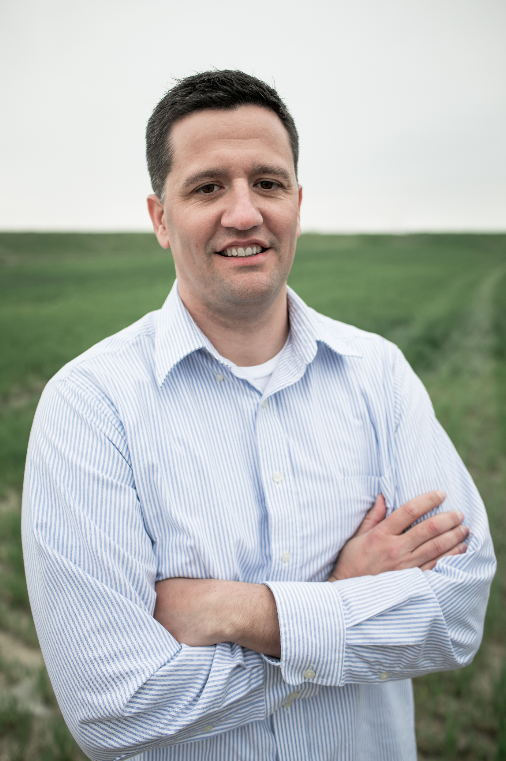
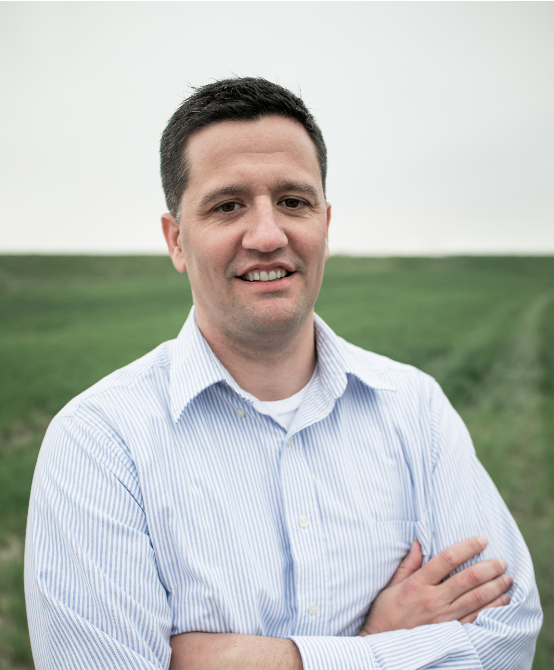
percentages on learning path

diff --git a/didact/src/components/learningPaths/LearningPath.jsx b/didact/src/components/learningPaths/LearningPath.jsx
@@ -47,6 +47,9 @@ const LearningPath = ({ id }) => {
             upcomingItemsCourses.push(el)
         }
     })
+    const progress = firstItemCourse && ((firstItemCourse.completed / firstItemCourse.total) * 100).toString()
+    const progressPecentage = progress && Number(progress.substring(0, 4))
+   
 
     console.log(completionItemsCourses)
     console.log('leanring apth', learningPath)
@@ -74,6 +77,13 @@ const LearningPath = ({ id }) => {
                 </div>
                 <div className='learningPathCard'>
                     <h2>{firstItemCourse.name}</h2>
+                    {!firstItemCourse.path_id ?
+                        (<div style={{display:'flex', justifyContent: 'space-between', width: '80%'}}>
+                            <div style={{display:'flex', flexDirection:'column', textAlign: "left"}}>
+                            <span>Progress</span>
+                            <span>{`${(firstItemCourse) ? (progressPecentage) : 0} %`}</span>
+                            </div> 
+                        </div>): null} 
                     <p>{firstItemCourse.description}</p>
                     <div className='goToCourse'>
                         <h4>Udemy</h4>
@@ -92,6 +102,13 @@ const LearningPath = ({ id }) => {
                                         <div className='learningPathCard'>
                                             <div>
                                                 <h2>{itemCourse.name}</h2>
+                                                {!itemCourse.path_id ? 
+                                                (<div style={{display:'flex', justifyContent: 'space-between', width: '80%'}}>
+                                                    <div style={{display:'flex', flexDirection:'column', textAlign: "left"}}>
+                                                    <span>Progress</span>
+                                                    <span>{`${(itemCourse) ? (((itemCourse.completed / itemCourse.total) * 100).toString().substring(0, 4)) : 0} %`}</span>
+                                                    </div> 
+                                                </div>) : null}
                                                 <p>{itemCourse.description}</p>
                                             </div>
                                             <div className='goToCourse'>
@@ -116,6 +133,12 @@ const LearningPath = ({ id }) => {
                                         <div className='learningPathCard completed'>
                                             <div>
                                                 <h2>{itemCourse.name}</h2>
+                                                <div style={{display:'flex', justifyContent: 'space-between', width: '80%'}}>
+                                                    <div style={{display:'flex', flexDirection:'column', textAlign: "left"}}>
+                                                    <span>Progress</span>
+                                                    <span>{`100%`}</span>
+                                                    </div> 
+                                                </div>
                                                 <p>{itemCourse.description}</p>
                                             </div>
                                             <div className='goToCourse'>

diff --git a/didact/src/components/courses/Course.jsx b/didact/src/components/courses/Course.jsx
@@ -101,13 +101,11 @@ const Course = ({ course, addingCourses }) => {
     const dispatch = useDispatch();
     const learningPaths = state.learningPathReducer.yourLearningPathsOwned
     const detailedCourse = state.coursesReducer.detailedCourse
-    const singleCourseInfo = detailedCourse.course
     const filteredPaths = []
     const [expanded, setExpanded] = useState(false);
     const [anchorEl, setAnchorEl] = useState(null);
     const open = Boolean(anchorEl);
     const id = open ? 'simple-popover' : undefined;
- 
 
     useEffect(() => {
         dispatch(courseEndPoint());
@@ -117,25 +115,6 @@ const Course = ({ course, addingCourses }) => {
         dispatch(getYourLearningPathsOwned())
     }, [dispatch, state.learningPathReducer.learningPath]);
 
-// Get Sections and Progress
-//     useEffect(() => {
-//             dispatch(getDetailedCourse(course.id))
-//         }, [course.id])
-
-//    const progress = detailedCourse.course && ((detailedCourse.course.completed / detailedCourse.course.total) * 100).toString()
-//    const progressThree = progress && Number(progress.substring(0, 4))
-//    console.log(progressThree)
-
-   //LESSONS
-    // const [lessonCount, setLessonCount] = useState(0) 
-    // useEffect(() => {
-    //     detailedCourse.sections && detailedCourse.sections.map(el => {
-    //     setLessonCount(Number(lessonCount) + Number(el.details.length))
-        
-    // })
-    // }, [detailedCourse.sections])
-    
-    // console.log(lessonCount)
 
     const handleExpandClick = () => {
         setExpanded(!expanded);
@@ -221,7 +200,7 @@ const Course = ({ course, addingCourses }) => {
                         </div>
                     </h3>
                     <CardActions className={classes.descriptionDiv} style = {{color: "white"}} disableSpacing>
-                        <div style={{display:'flex', justifyContent: 'space-between', width: '80%'}}>
+                        {/* <div style={{display:'flex', justifyContent: 'space-between', width: '80%'}}> */}
                             {/* <div style={{display:'flex', flexDirection:'column', textAlign: "left"}}>
                             <span>Sections</span>
                             <span>{((detailedCourse.sections && detailedCourse.course) && detailedCourse.course.id === course.id) ? detailedCourse.sections.length : 0}</span>
@@ -230,7 +209,7 @@ const Course = ({ course, addingCourses }) => {
                             <span>Progress</span>
                             <span>{`${(detailedCourse.course && detailedCourse.course.id === course.id) ? (progressThree) : 0} %`}</span>
                             </div> */}
-                        </div>
+                        {/* </div> */}
                         <p style={{textAlign:'left', marginLeft: '15px'}}>{course.description && !expanded ? (`${course.description.substring(0, 150)} ...`) : null}</p>
                         <IconButton
                             className={clsx(classes.expand, {

diff --git a/didact/src/components/about/About.jsx b/didact/src/components/about/About.jsx
@@ -9,6 +9,7 @@ import AndrewImage from '../../images/team/andrew.png'
 import ToddImage from '../../images/team/todd.png'
 import JonImage from '../../images/team/jon.png'
 import MarkImage from '../../images/team/mark.png'
+import BenImage from '../../images/team/ben.png'
 
 // Icons
 import { FaDribbble, FaGithub } from 'react-icons/fa';
@@ -28,7 +29,7 @@ console.log(props)
         {name: 'Eli Sacks', img: <PersonImage alt="" src={EliImage}/>, area: "Development", icon: <FaGithub style ={{width: '25px', height: "25", color: "white", marginBottom: '10px'}}/>, link: "https://github.com/Bastlifa"},
         {name: 'Todd McKenzie', img: <PersonImage alt="" src={ToddImage}/>, area: "Team Lead/ Development", icon: <FaGithub style ={{width: '25px', height: "25", color: "white", marginBottom: '10px'}}/>, link: "http://www.github.com/toddmckenzie"},
         {name: 'Seth Nadu', img: <PersonImage alt="" src={SethImage}/>, area: "Development", icon: <FaGithub style ={{width: '25px', height: "25", color: "white", marginBottom: '10px'}}/>, link: "https://github.com/sethnadu"},
-        {name: 'Ben Allen', img: <PersonImage alt="" src={AndrewImage}/>, area: "Development", icon: <FaGithub style ={{width: '25px', height: "25", color: "white", marginBottom: '10px'}}/>, link: "https://github.com/allenben746"},
+        {name: 'Ben Allen', img: <PersonImage alt="" src={BenImage}/>, area: "Development", icon: <FaGithub style ={{width: '25px', height: "25", color: "white", marginBottom: '10px'}}/>, link: "https://github.com/allenben746"},
     ]
 
     return (

diff --git a/didact/src/components/courses/EditCourse.jsx b/didact/src/components/courses/EditCourse.jsx
@@ -176,8 +176,8 @@ const EditCourse = ({ props, id }) => {
             <>
                 {/* <FinishEdit style={{ fontSize: '1.4rem' }} onClick={backToCourse}>{(props.match.params.pathId ? `<- BACK TO PATH` : `<- BACK TO COURSE`)}</FinishEdit> */}
                 <div style={{display: 'flex', justifyContent: 'space-between', margin: '-10px 10px 10px 10px', borderBottom: '1px solid black'}}>
-                <p style={{fontWeight: 'bold', marginLeft: '10px', display: 'flex', flexDirection:'row', alignItems: 'center'}}><span className={classes.span}  onClick={handleBack}>Courses</span><ChevronRightIcon style={{fontSize: '1.6rem'}}/><span className={classes.span} onClick={backToCourse}>{course.name && course.name.substring(0, 15)}...</span><ChevronRightIcon style={{fontSize: '1.6rem'}}/><span>Edit</span></p>
-                </div>
+                <p style={{fontWeight: 'bold', marginLeft: '10px', display: 'flex', flexDirection:'row', alignItems: 'center'}}><span className={classes.span}  onClick={handleBack}>Courses</span><ChevronRightIcon style={{fontSize: '1.6rem'}}/><span className={classes.span}  onClick={backToCourse}>{course.name && course.name.substring(0, 15)}...</span><ChevronRightIcon style={{fontSize: '1.6rem'}}/><span>Edit</span></p>
+            </div>
                 <div className={classes.root}>
                     {!courseEdit ?
                         (<Card className={classes.card} style={{ background: '#386581', color: 'white' }}>

diff --git a/didact/src/store/actions/learningPaths.js b/didact/src/store/actions/learningPaths.js
@@ -241,7 +241,7 @@ export const addNewCourseToLearningPath = (props, courseId) => dispatch =>
     })
     .then(() => props.history.push(`/learning-paths/${props.match.params.id}/courses/${courseId}/edit`))
     .catch(err =>
-    {
+    {   
         dispatch({ type: POST_COURSE_TO_PATH_FAIL, payload: err })
     })
 }
@@ -249,7 +249,6 @@ export const addNewCourseToLearningPath = (props, courseId) => dispatch =>
 export const postCourseToPath = (pathId, courseId, order) => dispatch =>
 {
     dispatch({ type: POST_COURSE_TO_PATH_START })
-
     axiosWithAuth().post(`${baseURL}${pathId}/courses/${courseId}`, {order})
     .then(res =>
     {
@@ -257,6 +256,7 @@ export const postCourseToPath = (pathId, courseId, order) => dispatch =>
     })
     .catch(err =>
     {
+        console.log(err.response)
         dispatch({ type: POST_COURSE_TO_PATH_FAIL, payload: err })
     })
 }

diff --git a/didact/src/components/drawer/Drawer.jsx b/didact/src/components/drawer/Drawer.jsx
@@ -151,11 +151,13 @@ const DrawerComponent = (props) => {
           }),
           width: '65px',
           backgroundColor: "#565554",
+          overflow: 'hidden',
           marginLeft: '20px',
           height: '68px',
           marginTop: "10px",
           position: 'fixed',
           display: 'flex',
+          paddingLeft: '70px',
           justifyContent: 'center',
           alignItems: 'center',
           borderRadius: "19px",
@@ -175,7 +177,7 @@ const DrawerComponent = (props) => {
           :
           (
           <div className={classes.didactDivClosed}>
-            <h2 style={{fontSize: "3.2rem", color: 'white', fontFamily: 'ITC Grouch'}}>D</h2>
+            <h2 style={{fontSize: "3.2rem", color: 'white', fontFamily: 'ITC Grouch'}}>D<span style={{color: "#565554"}}>idact</span></h2>
           </div>
           )}
         <Drawer

diff --git a/didact/src/index.css b/didact/src/index.css
@@ -1,5 +1,5 @@
 html {
-  background-color: #D3D3D3;
+  background-color: #EBE8E1;
   /* overflow-y: auto !important; */
   font-size: 62.5%;
   margin-left: calc(100vw - 100%);
@@ -111,7 +111,7 @@ p {
 
 
 #root {
-  background-color: #D3D3D3;
+  background-color: #EBE8E1;
 }
 
 body {
@@ -120,7 +120,7 @@ body {
   -webkit-font-smoothing: antialiased;
   -moz-osx-font-smoothing: grayscale;
   padding-right: 0 !important;
-  background-color: #D3D3D3;
+  background-color: #EBE8E1;
   overflow-x: hidden;
   overflow-anchor:  none;
 }

diff --git a/didact/src/components/mainPage/MainPage.jsx b/didact/src/components/mainPage/MainPage.jsx
@@ -20,7 +20,7 @@ import Profile from '../profile/Profile'
 
 const useStyles = makeStyles(theme => ({
     root: {
-        backgroundColor: "lightgray",
+        backgroundColor: "#EBE8E1",
     },
     content: {
         flexGrow: 1,

diff --git a/didact/src/App.css b/didact/src/App.css
@@ -1,6 +1,6 @@
 .App {
   text-align: center;
-  background-color: #D3D3D3;
+  background-color: #EBE8E1;
   margin: 0 auto;
   max-width: 1110px;
   width: 100%;
